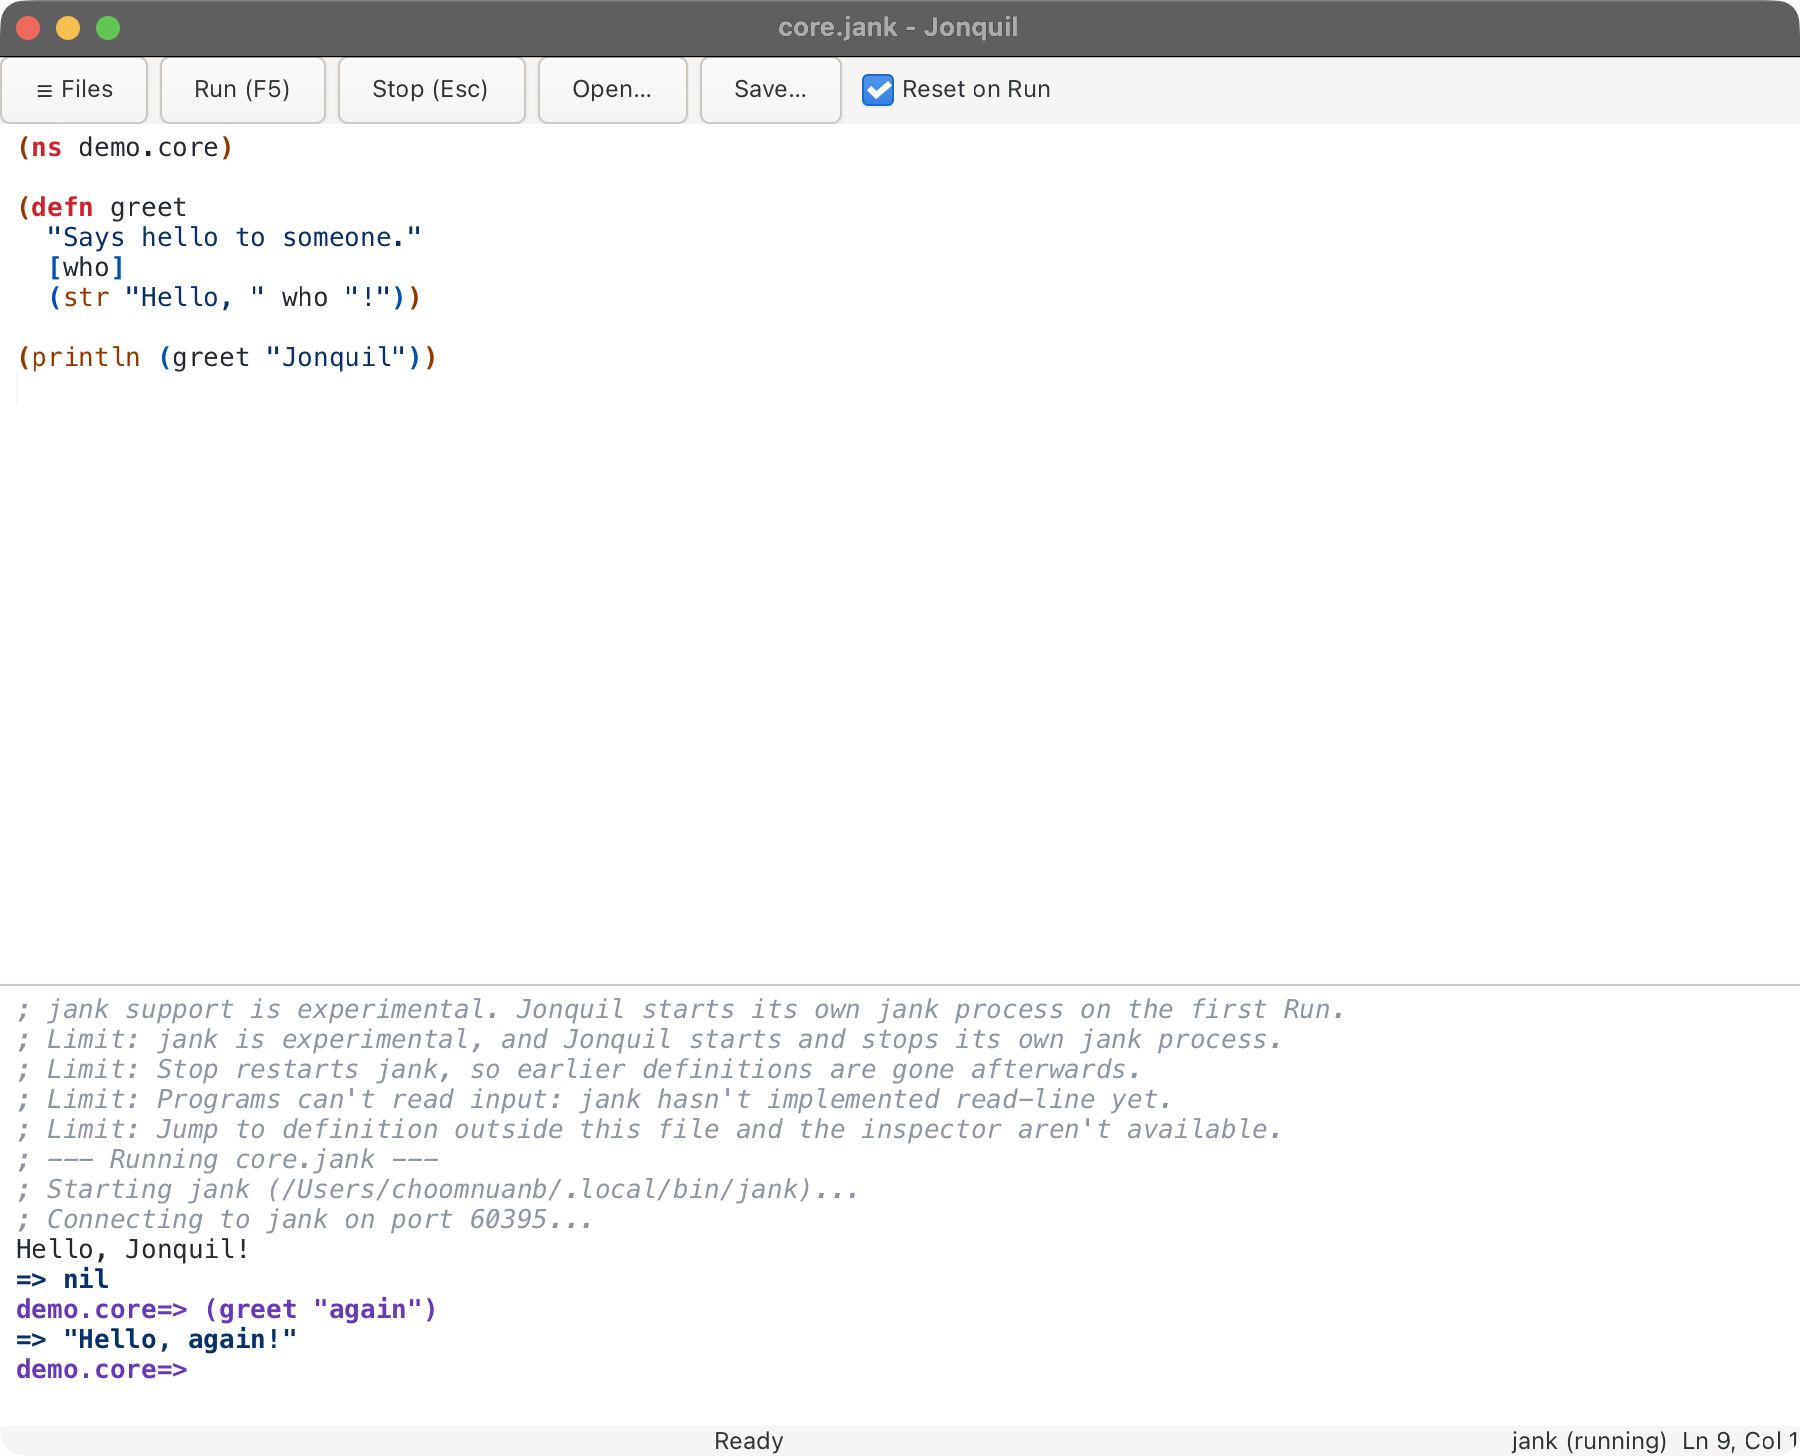
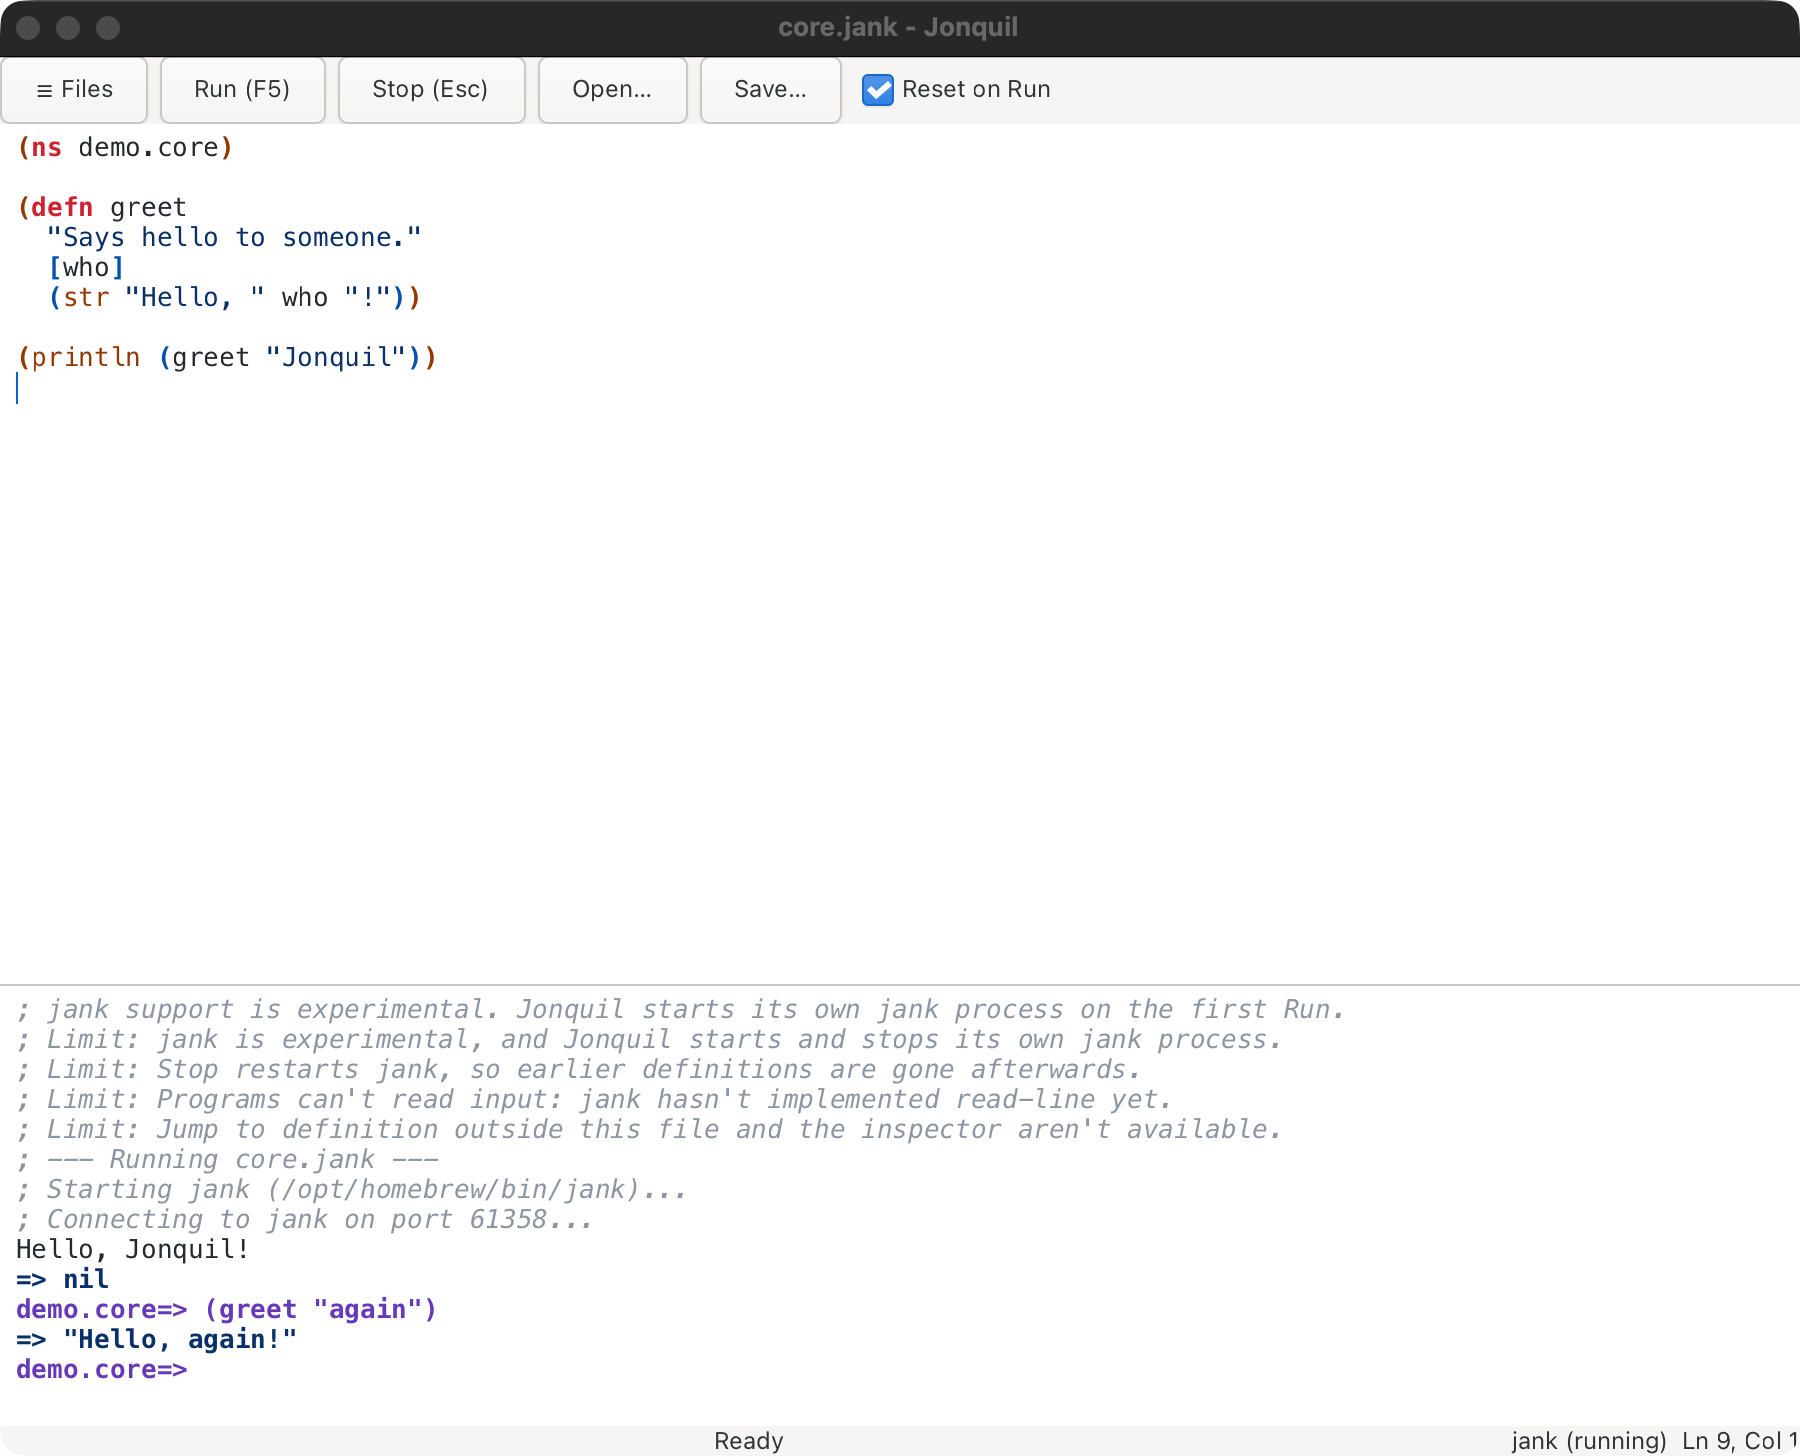
docs: jank accuracy fixes and a screenshot without a home path

Changed region(s): [[0.0, 0.0, 1.0, 0.0618], [0.1556, 0.8036, 0.4356, 0.8345]]

diff --git a/docs/guide/using-jonquil.md b/docs/guide/using-jonquil.md
@@ -583,7 +583,7 @@ count, and paging still works over everything up to the cap.
 ## Dialects and runtimes
 
 Jonquil evaluates through a dialect profile: what a language's files look
-like, how they're painted, and which evaluator runs them. Two profiles
+like, how they're painted, and which evaluator runs them. Four profiles
 exist today: Jolt, ClojureDart (experimental), JVM Clojure and jank
 (experimental). Selection and the evaluator seam underneath them are
 generic enough for more. The status
@@ -954,14 +954,18 @@ the file first." rather than running the code in `user`.
 
 jank has no interrupt, so Stop kills the process and starts a fresh one:
 "; Stopped. jank restarted, so earlier definitions are gone." Reset on
-Run does the same before each Run, and it's on by default, as it is for
-every other runtime ("; Reset: restarted jank."). Uncheck it and Run
-builds on whatever the process already has.
+Run is on by default, as it is for every other runtime. With it ticked, a
+Run restarts jank first ("; Reset: restarted jank."), but only when the
+process has already served a request: the first Run just starts jank and
+prints no Reset line. Uncheck it and Run builds on whatever the process
+already has.
 
 One caveat for a loose `.jank` file with no project: when the first
 evaluation is a REPL line or Run Selection rather than Run, jank starts
 without the file's folder on its module path, so a `require` of a sibling
-file fails until you Stop or Reset. Run the file first to avoid it.
+file fails. It lasts until a Run starts jank: a Run after a Stop, or any
+Run with Reset on Run ticked. Stop alone doesn't help, because a REPL line
+still starts jank without the path. Run the file first to avoid it.
 
 #### Docs and completion
 

diff --git a/docs/guide/architecture.md b/docs/guide/architecture.md
@@ -180,7 +180,8 @@ underneath runs in this process or somewhere else. `jonquil.session`'s
 still the one every window starts with by default. The `make` multimethod
 dispatches on a selection's `:runtime`, so requiring a new
 implementation's namespace is what registers it; `jonquil.nrepl.
-evaluator` is the second one, and every `:attach` runtime is the third:
+evaluator` is the second one, `jonquil.nrepl.jank` registers `:launch` as
+the third, and every `:attach` runtime is another:
 `ev/make :attach` forwards to `jonquil.nrepl.connection`'s own
 `make-attached` multimethod, dispatched a second time on the selection's
 profile id, so `jonquil.nrepl.attach` (`:cljd`) and `jonquil.nrepl.jvm`
